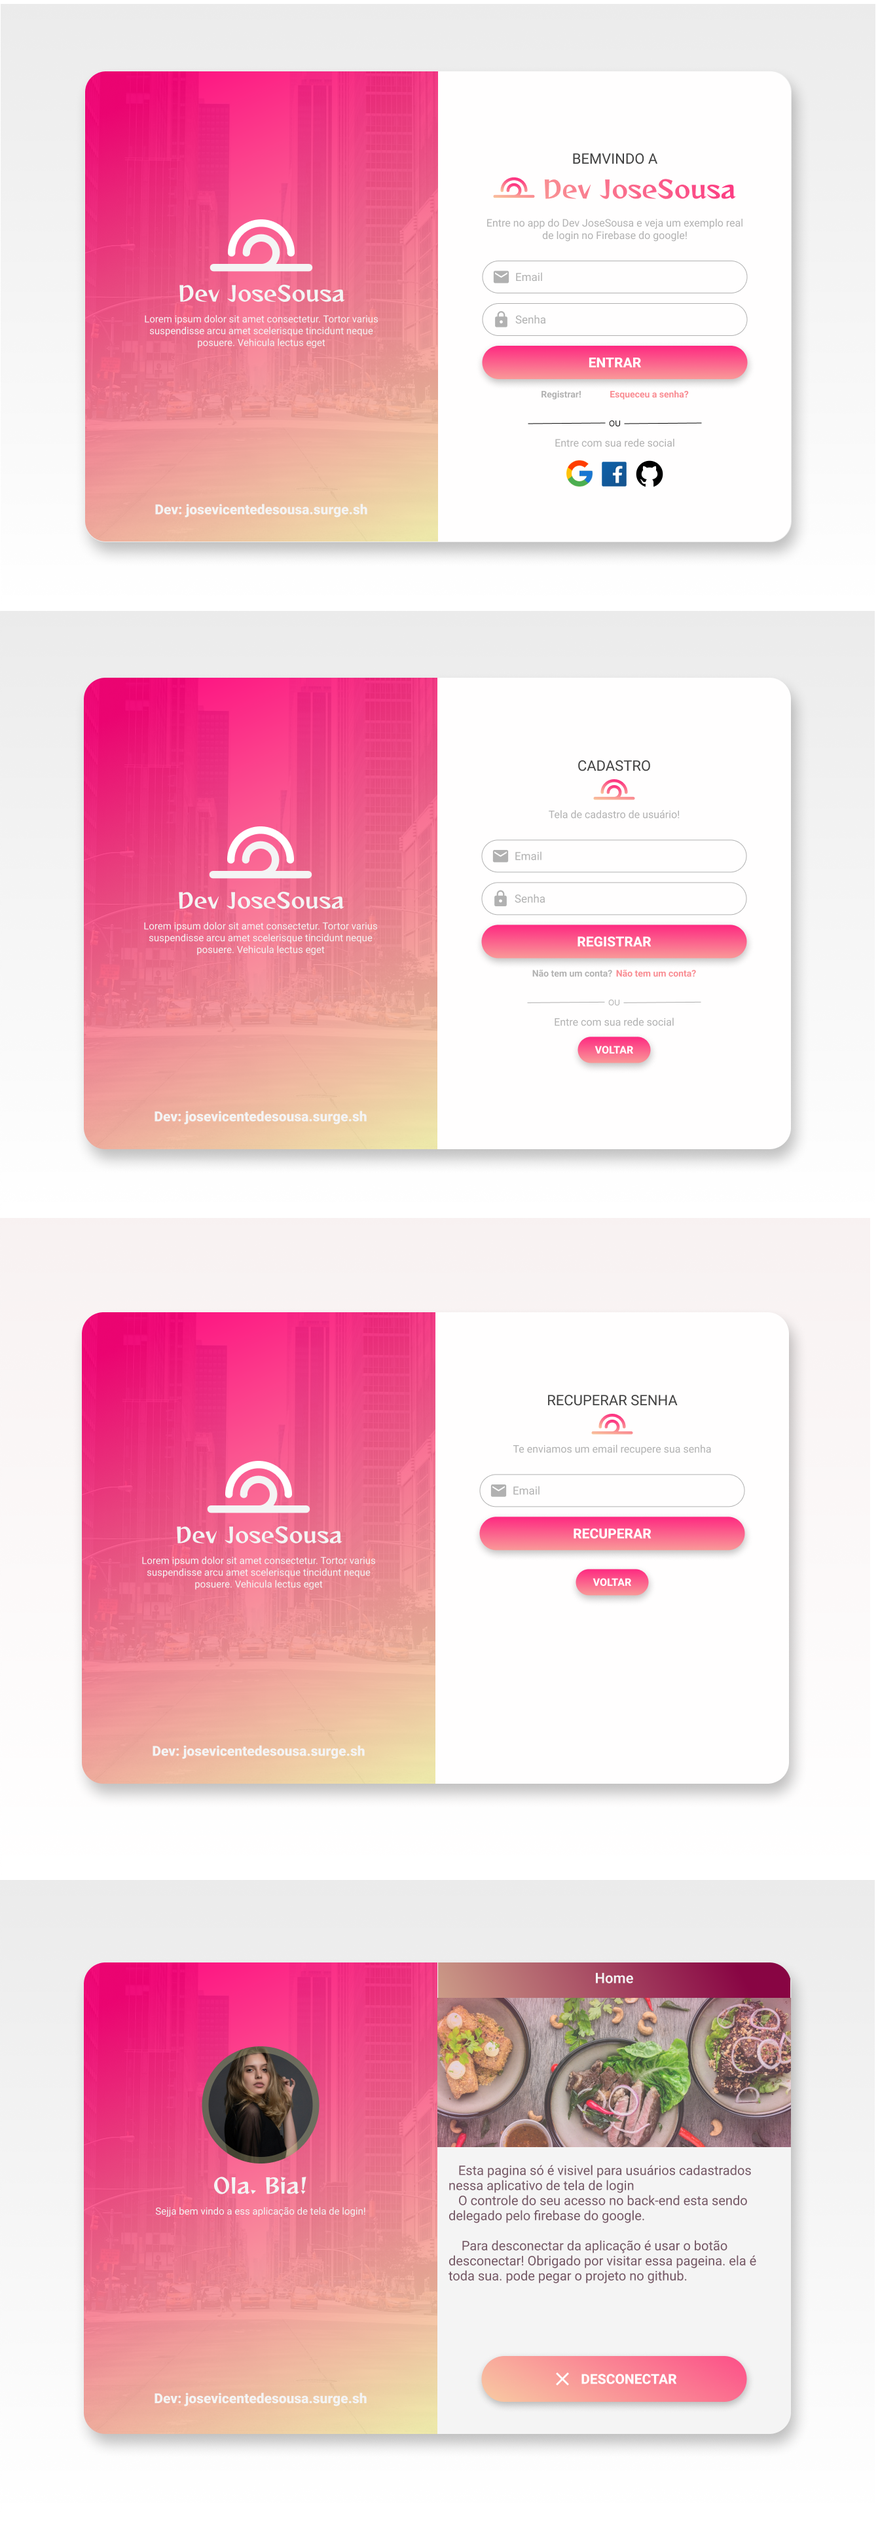
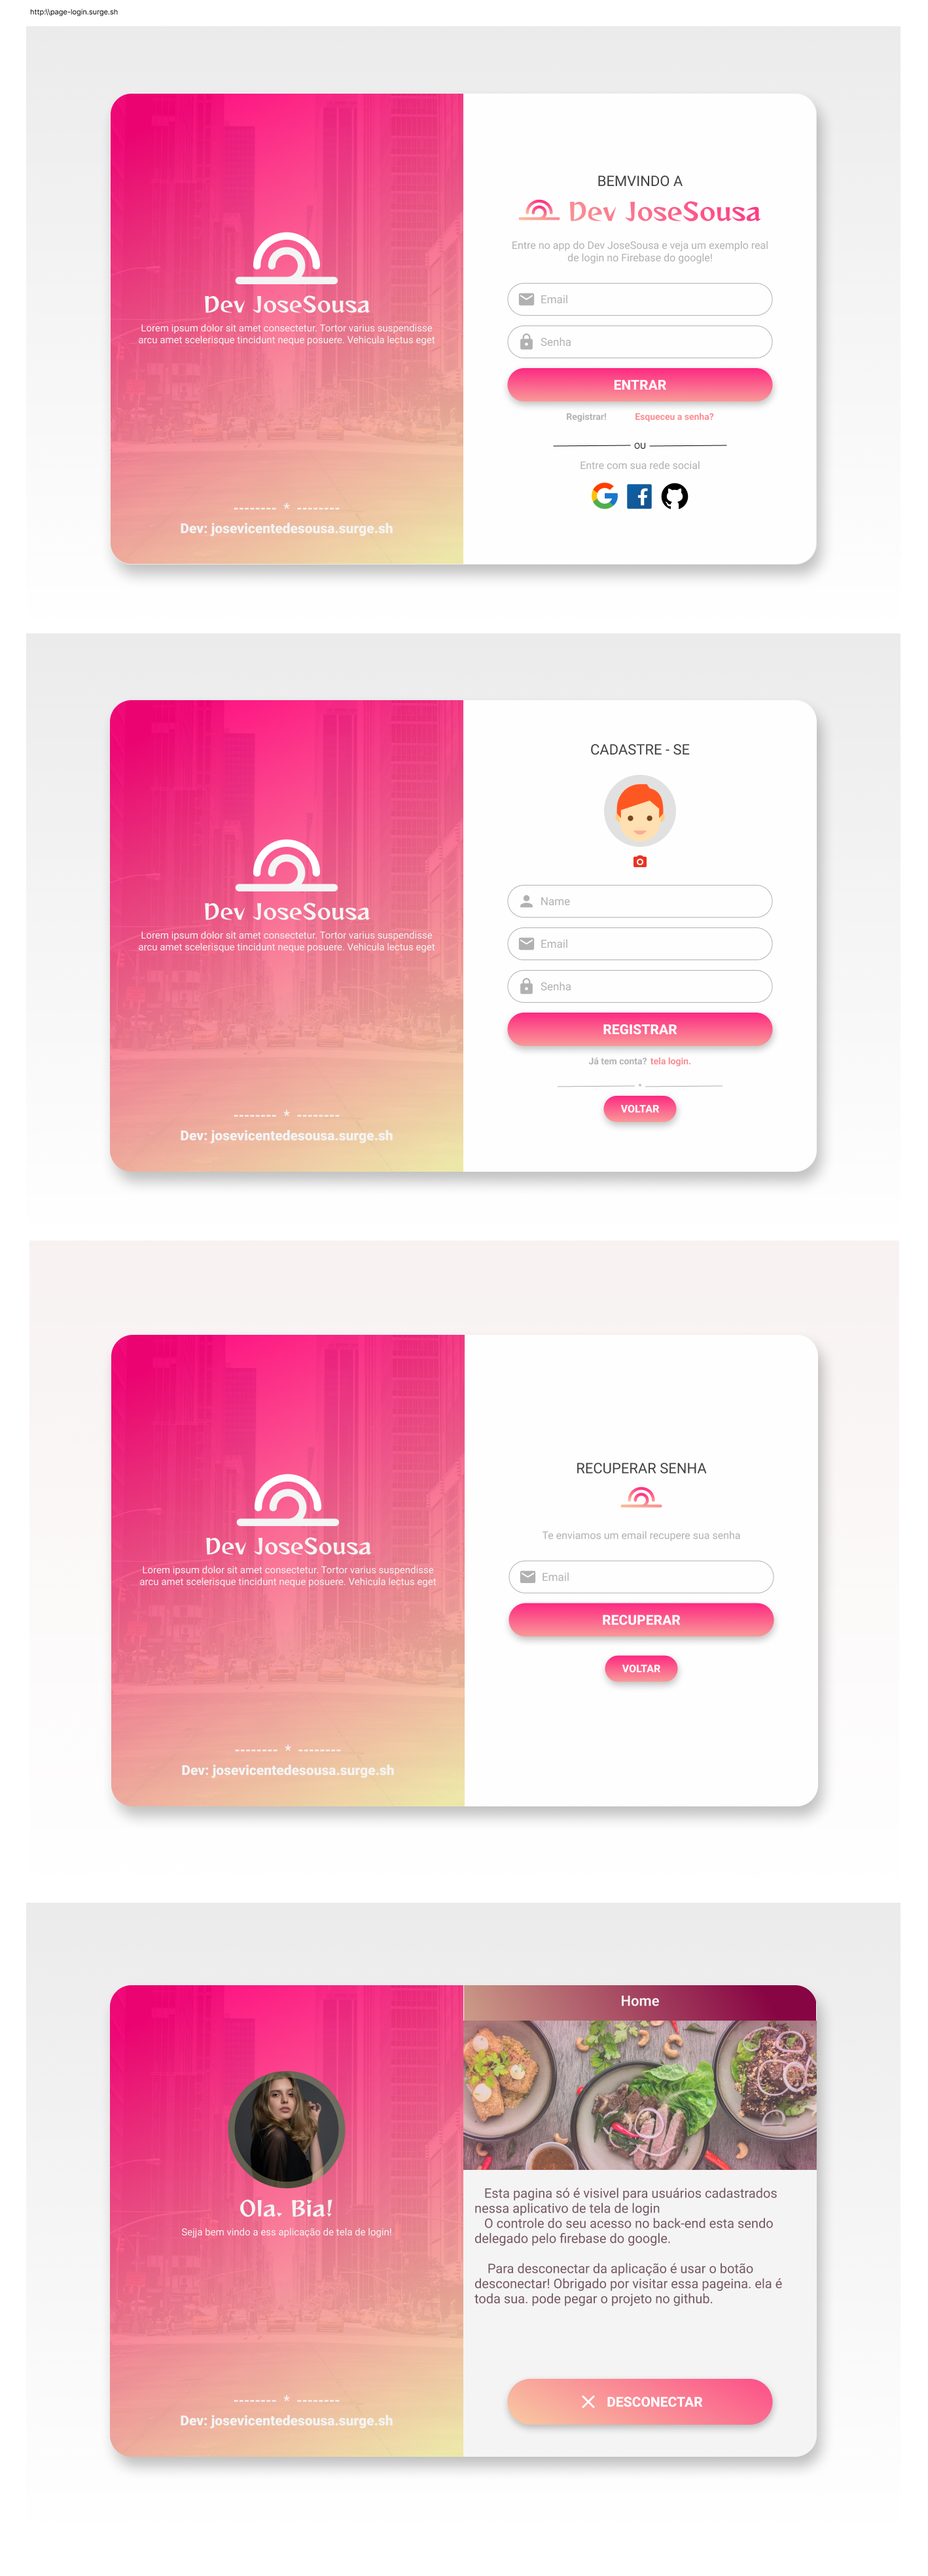
estilo-teste

diff --git a/src/styles.scss b/src/styles.scss
@@ -1,1 +1,144 @@
 /* You can add global styles to this file, and also import other style files */
+@import "./styles-variables.scss";
+
+
+* {
+    margin: 0;
+    padding: 0;
+    box-sizing: border-box;
+
+    font-family: "Poppins", sans-serif;
+}
+
+body {
+    background: var(--body-color);
+    padding: 35px;
+    height: 100%;
+}
+
+main {
+    display: flex;
+    flex-direction: row;
+    justify-content: center;
+    align-items: center;
+    box-shadow: 8px 10px 21px #c1c1c1;
+    border-radius: 33px;
+
+    margin: 10px auto;
+    max-width: 1080px;
+    min-width: 220px;
+    height: 720px;
+
+    section {
+        padding: 39px;
+        align-items: center;
+        display: flex;
+        flex-direction: column;
+        justify-content: end;
+    }
+
+    .transparencia1 {
+        filter: alpha(opacity=10);
+        opacity: 0.1;
+        -moz-opacity: 0.1;
+        -webkit-opacity: 0.1;
+    }
+
+    .card {
+        background: -webkit-linear-gradient( var(--color-1), var(--color-2));
+        color: var(--body-color);
+        border-radius: 33px 0 0 33px;
+        text-align: center;
+        flex: 1;
+        gap: 18px;
+        height: 100%;
+        
+        img.background{
+            width: 200px;
+            height: 200px;
+            position: absolute;
+            background-repeat: no-repeat;
+            background-position: center;
+            background-size: cover;
+            z-index: 1;
+        }
+        
+        .card-main {
+            display: flex;
+            flex-direction: column;
+            gap: 15px;
+            z-index: 2;
+
+            img{
+                width: 55%;
+                margin: 0 auto;
+            }
+
+            h1 {
+                font-size: 28px;
+            }
+        }
+        .card-footer{
+            margin-top: 40%;
+            z-index: 2;
+
+            h2 {
+                font-size: 18px;
+            }
+        }
+    }
+
+    .form {
+        background-color: aqua;
+        border-radius: 0 33px 33px 0;
+        flex: 1;
+        height: 100%;
+    }
+
+}
+
+@media (max-width: 450px ) {
+    body {
+        padding: 15px;
+    }
+    main {
+        flex-direction: column;
+
+        .card {
+            border-radius: 33px 33px 0 0;
+            width: 100%;    
+
+            .card-main{
+                display: flex;
+                flex-direction: column;
+                gap: 11px;
+
+
+                h1{
+                    font-size: 21px;
+                }
+                p {
+                    font-size: small;
+                }
+            }
+            .card-footer{
+                margin-top: 6%;
+                h2{
+                    font-size: 13px;
+                }
+            }
+        }
+
+        .form {
+            border-radius: 0 0 33px 33px;
+            width: 100%;
+        }
+    }
+}
+
+// @media (mix-width: 500px ) {
+//     main {
+//         width: 400px;
+//     }
+// }
+

diff --git a/src/app/pages/auth/auth.component.html b/src/app/pages/auth/auth.component.html
@@ -1,1 +1,23 @@
-<p>auth works!</p>
+<main>
+    <section class="card">
+        
+        <!-- <div class="card-image"  style="background-image: url('../../../assets/imagens/card-image-1.png');"></div> -->
+        <img class="background" src="../../../assets/imagens/card-image-1.png" alt="">    
+        <div class="card-main">
+            <img src="../../../assets/logo.svg">
+            <h1>Dev JoseVsousa</h1>
+            <p>Lorem ipsum dolor sit amet consectetur. Tortor varius suspendisse arcu amet scelerisque tincidunt neque
+            posuere. Vehicula lectus eget</p>
+        </div>  
+
+        <div class="card-footer">    
+            <p>------- # ---------</p>
+            <h2>Dev: josevicentedesousa.surge.sh</h2>
+        </div>
+    
+    </section>
+    <section class="form">
+        <h1>form</h1>
+    </section>
+
+</main>

diff --git a/src/app/pages/auth/auth.component.ts b/src/app/pages/auth/auth.component.ts
@@ -1,9 +1,11 @@
+import { BoundElementProperty } from '@angular/compiler';
 import { Component } from '@angular/core';
+import { BottomPrimaryComponent } from '../../components/primary-bottom/primary-bottom.component';
 
 @Component({
   selector: 'app-auth',
   standalone: true,
-  imports: [],
+  imports: [BottomPrimaryComponent],
   templateUrl: './auth.component.html',
   styleUrl: './auth.component.scss'
 })

diff --git a/src/app/components/input-primary/input-primary.component.ts b/src/app/components/input-primary/input-primary.component.ts
@@ -1,0 +1,14 @@
+import { Component } from '@angular/core';
+
+@Component({
+  selector: 'input-primary',
+  standalone: true,
+  imports: [],
+  template: `
+    <h1>Ola! Input Primary!</h1>
+  ` ,
+  styleUrl: './input-primary.component.scss'
+})
+export class InputPrimaryComponent {
+
+}

diff --git a/src/app/components/primary-bottom/primary-bottom.component.ts b/src/app/components/primary-bottom/primary-bottom.component.ts
@@ -1,0 +1,12 @@
+import {Component} from '@angular/core';
+
+@Component({
+    selector: 'bottom-primary',
+    standalone: true,
+    template: `
+        <h1>Ola bottom-primary!</h1>
+    `,
+    styleUrl: "./primary-bottom.component.scss"
+})
+
+export class BottomPrimaryComponent{}

diff --git a/src/styles-variables.scss b/src/styles-variables.scss
@@ -1,0 +1,13 @@
+
+:root {
+        //colors
+        --body-color: #FFFFFF;
+
+        --color-1: #FF0078;
+        --color-2: #F6EFAA;
+        --color-3: #EBEBEB;
+
+        // text-colors
+        --color-text-1: #424242;
+        --color-text-2: #B1B1B1;
+}

diff --git a/src/app/app.component.ts b/src/app/app.component.ts
@@ -5,6 +5,8 @@ import { RouterOutlet } from '@angular/router';
   selector: 'app-root',
   standalone: true,
   imports: [RouterOutlet],
-  template: `<router-outlet />`,
+  template: `
+    <router-outlet />
+  `,
 })
 export class AppComponent {}

diff --git a/src/app/pages/auth/forgot-password/forgot-password.component.html b/src/app/pages/auth/forgot-password/forgot-password.component.html
@@ -1,1 +1,3 @@
-<p>forgot-password works!</p>
+<main>
+    <p>forgot-password works!</p>
+</main>

diff --git a/src/app/pages/auth/sign-up/sign-up.component.html b/src/app/pages/auth/sign-up/sign-up.component.html
@@ -1,1 +1,4 @@
-<p>sign-up works!</p>
+
+<main>
+    <p>sign-up works!</p>
+</main>

diff --git a/src/app/components/primary-bottom/primary-bottom.component.scss b/src/app/components/primary-bottom/primary-bottom.component.scss
@@ -1,0 +1,4 @@
+
+h1 {
+    color: var(--color-primary);
+}

diff --git a/src/app/components/input-primary/input-primary.component.html b/src/app/components/input-primary/input-primary.component.html
@@ -1,0 +1,1 @@
+<p>input-primary works!</p>
